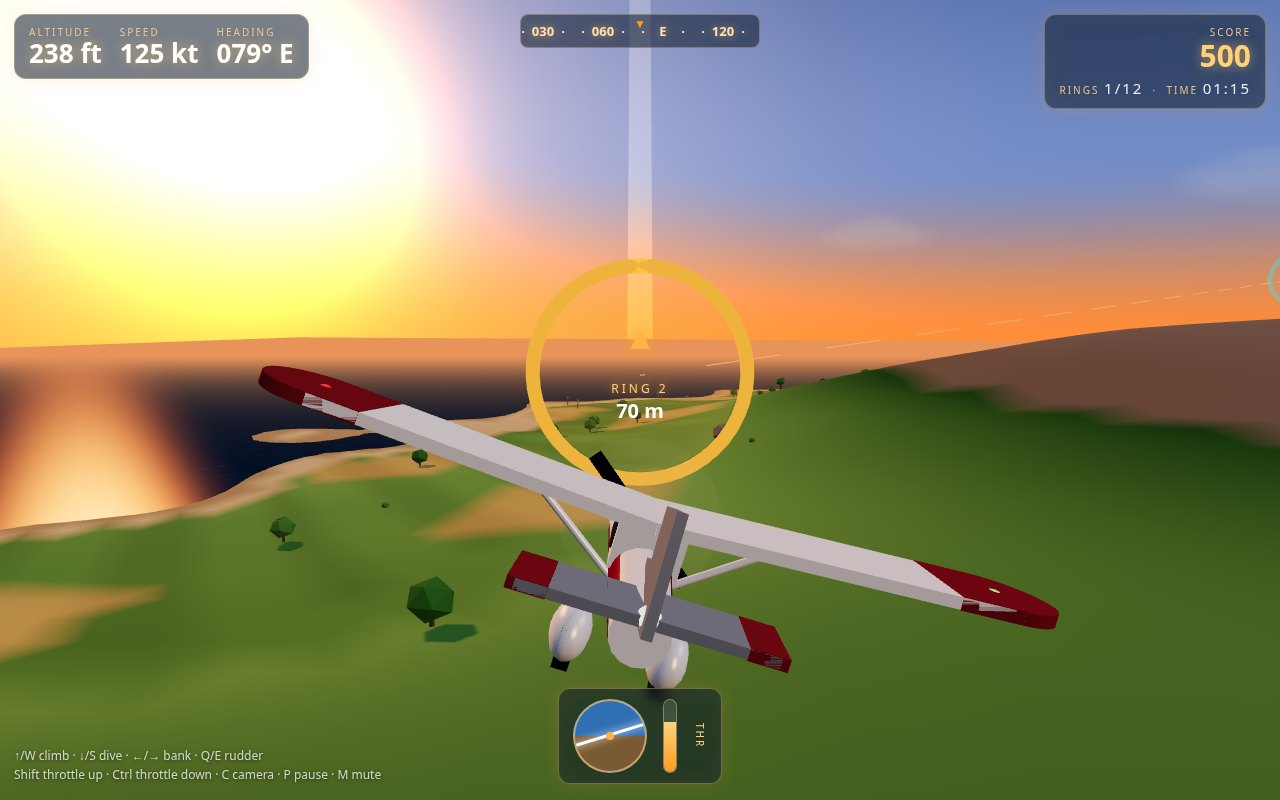
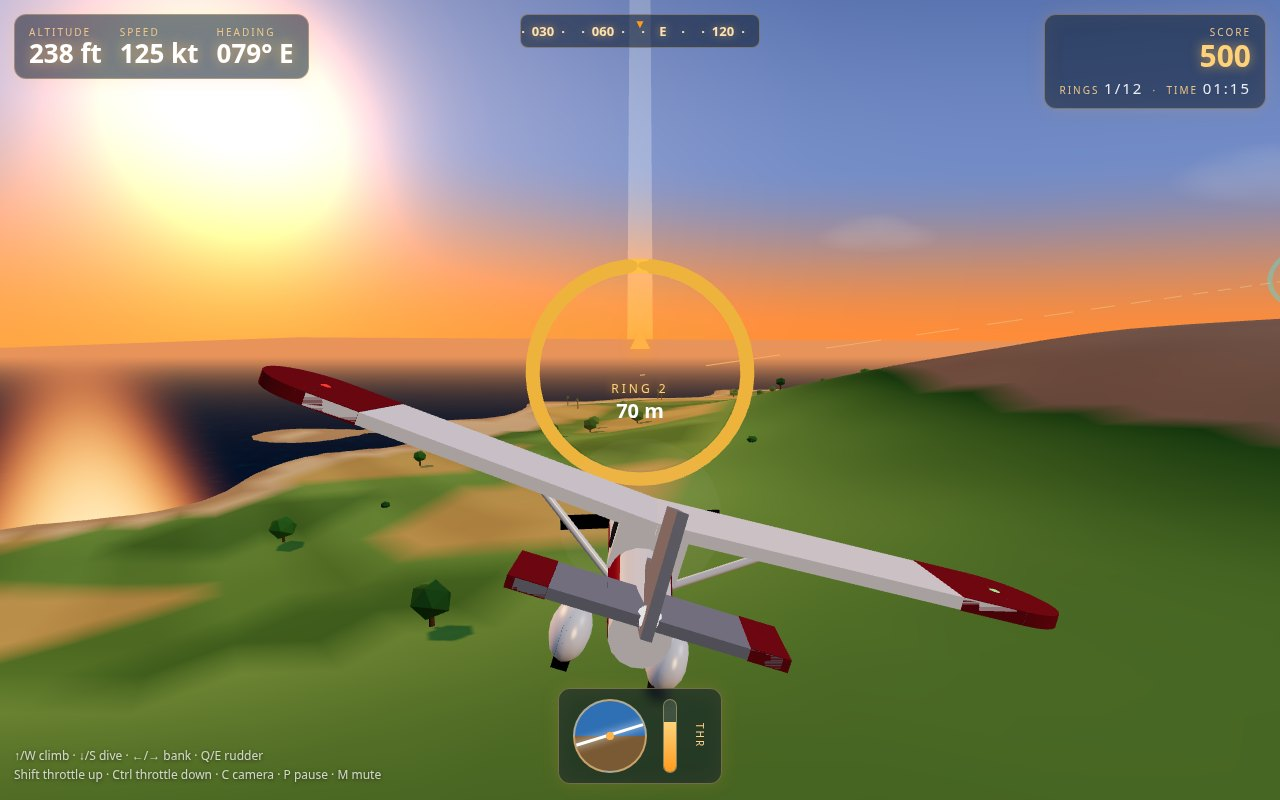
v4 targeted polish: bright menu/end staging, cockpit nose, softer sun, richer terrain
- Menu/end orbit camera swung to 0.79 (SE, looking NW over open sea
  instead of the dark NE hillside); orbit camera raised so the horizon
  stays in frame; runway lightened, hemisphere/ambient up
- Cockpit camera moved behind the nose so the white cowl reads at the
  bottom of the frame; prop stays hidden in cockpit (a faint blur read
  as a dark diagonal slab at any visible opacity)
- Sun glow shrunk/softened in the sky shader (core pow 150, halo pow 12)
- Boulders excluded within 350 m of the strip and sunk into slopes
- Terrain: more wheat/meadow variation + finer mottling; palms framing
  the strip and clusters along the ring course
- Cessna model, gameplay, HUD, flight model, rings, sounds untouched

diff --git a/game/src/world.js b/game/src/world.js
@@ -43,8 +43,11 @@ function buildSky(scene, rng) {
         vec3 col = mix(horizon, mid, smoothstep(0.0, 0.22, h));
         col = mix(col, zenith, smoothstep(0.18, 0.75, h));
         float sun = max(dot(normalize(vDir), sunDir), 0.0);
-        col += vec3(1.0, 0.55, 0.18) * pow(sun, 90.0) * 1.6;
-        col += vec3(1.0, 0.62, 0.28) * pow(sun, 7.0) * 0.35;
+        // Smaller, warmer sun: a tight bright core + a soft halo, so the
+        // ring and the plane stay the brightest readable elements instead
+        // of drowning in a blown white-yellow wash (v3 cover flaw).
+        col += vec3(1.0, 0.55, 0.18) * pow(sun, 150.0) * 1.15;
+        col += vec3(1.0, 0.62, 0.28) * pow(sun, 12.0) * 0.22;
         gl_FragColor = vec4(col, 1.0);
       }`,
   });
@@ -91,15 +94,19 @@ function buildTerrain(scene) {
     else if (h < 2.5) c.copy(sand);
     else if (h < 26) {
       c.copy(grassA).lerp(grassB, patch);
-      if (patch2 > 0.72) c.copy(wheat).lerp(c, 0.3); // golden field patches
+      if (patch2 > 0.6) c.copy(wheat).lerp(c, 0.12); // golden field patches
+      else if (patch2 < 0.22) c.lerp(forest, 0.4); // darker meadow patches
     } else if (h < 50) c.copy(grassB).lerp(forest, clamp((h - 26) / 24, 0, 1));
     else c.copy(rock).lerp(rockLight, clamp((h - 60) / 40, 0, 1) * 0.6);
-    // Farmland stripes on the gentle slopes + large-scale mottling.
+    // Farmland stripes on the gentle slopes + large-scale mottling + a
+    // finer mottle so the big green fields break up instead of reading flat.
     if (h > 2 && h < 22) {
       const stripe = Math.sin((x + z) * 0.11) > 0 ? 1 : 0.85;
       c.multiplyScalar(stripe);
     }
+    const patch3 = 0.5 + 0.5 * Math.sin(x * 0.071 + 0.5) * Math.sin(z * 0.063 - 0.8);
     c.multiplyScalar(0.94 + patch2 * 0.1);
+    c.multiplyScalar(0.96 + patch3 * 0.08);
     colors[i * 3] = c.r;
     colors[i * 3 + 1] = c.g;
     colors[i * 3 + 2] = c.b;
@@ -200,9 +207,11 @@ function buildClouds(scene, rng) {
 function buildRunway(scene) {
   const group = new THREE.Group();
   const y = RUNWAY.altitude + 0.15;
+  // Lighter strip so the runway reads in the menu/end shots instead of a
+  // black void (v3 flaw): warm light-grey asphalt, sun landing on it.
   const strip = new THREE.Mesh(
     new THREE.PlaneGeometry(RUNWAY.width, RUNWAY.length),
-    new THREE.MeshLambertMaterial({ color: 0x565a63 }),
+    new THREE.MeshLambertMaterial({ color: 0x75787e }),
   );
   strip.rotation.x = -Math.PI / 2;
   strip.rotation.z = RUNWAY.heading;
@@ -370,9 +379,12 @@ function buildCrags(scene) {
     const z = (rng() - 0.5) * 2200;
     const h = terrainHeight(x, z);
     if (h < 28 || h > 90) continue;
+    // Never near the airstrip: boulders on the hillside behind the runway
+    // read as beige blobs floating on the slope in the menu/end shots (v3).
+    if (Math.hypot(x - RUNWAY.x, z - RUNWAY.z) < 350) continue;
     const s = 2 + rng() * 4;
     const b = new THREE.Mesh(boulderGeo, rockMat);
-    b.position.set(x, h + s * 0.3, z);
+    b.position.set(x, h - s * 0.15, z); // sunk into the slope, clearly grounded
     b.scale.setScalar(s);
     b.rotation.set(rng() * 3, rng() * 3, rng() * 3);
     scene.add(b);
@@ -410,8 +422,8 @@ export function buildWorld(scene, seed = 1) {
   const rim = new THREE.DirectionalLight(0xbfd4ff, 0.45);
   rim.position.set(350, 240, 650);
   scene.add(rim);
-  scene.add(new THREE.HemisphereLight(0x8fb0e0, 0x5a4a3a, 1.5));
-  scene.add(new THREE.AmbientLight(0x604a38, 0.7));
+  scene.add(new THREE.HemisphereLight(0x8fb0e0, 0x5a4a3a, 1.7));
+  scene.add(new THREE.AmbientLight(0x604a38, 0.8));
 
   const dome = buildSky(scene, rng);
   const terrain = buildTerrain(scene);

diff --git a/game/src/main.js b/game/src/main.js
@@ -95,11 +95,14 @@ function main() {
       cameraMode = m;
       hud.setCockpit(m === 'cockpit');
       plane.canopy.visible = m !== 'cockpit';
-      // In the cockpit the prop is right in front of the camera: hide the
-      // whole prop (disc + blades) — at 1 m it veils the view. The blades
-      // read as black bars; the disc as a grey slab.
+      // Cockpit: the whole prop stays HIDDEN. A faint prop blur was tried
+      // in v4 — but a 3.4 m blade 2.25 m from the camera subtends ~74°,
+      // so even at 0.15 opacity it reads as a dark diagonal band across
+      // the frame (the v2 slab, back again). The nose cowl at the bottom
+      // of the frame is the aircraft cue; the prop blur is not worth the
+      // slab. Chase view keeps the full prop + disc.
       plane.prop.visible = m !== 'cockpit';
-      plane.bladeMat.opacity = m === 'cockpit' ? 0.22 : 1;
+      plane.bladeMat.opacity = m === 'cockpit' ? 0 : 1;
       plane.discMat.opacity = m === 'cockpit' ? 0 : 0.04;
     },
     setOrbitAngle(a) {
@@ -176,13 +179,13 @@ function main() {
   }
 
   function updateCockpitCamera() {
-    // Sit just ahead of the high wing's leading edge, above the nose, looking
-    // over the nose and the spinning prop: the wing stays behind the camera
-    // (it would fill the frame from the old seat), the runway stays in frame,
-    // and the prop reads small instead of filling the screen.
+    // Sit just behind the nose, above the cowl: the white nose + maroon
+    // belly read at the bottom of the frame (v3 sat ahead of the wing and
+    // the shot had no aircraft in it at all), the runway stays dead ahead,
+    // and the prop is a faint blur 2 m out instead of a slab at 1 m.
     const fwd = forwardVector(flight.state.yaw, flight.state.pitch);
     const up = new THREE.Vector3(0, 1, 0);
-    const pos = flight.state.pos.clone().addScaledVector(up, 0.95).addScaledVector(fwd, 2.2);
+    const pos = flight.state.pos.clone().addScaledVector(up, 1.12).addScaledVector(fwd, 1.1);
     camera.position.copy(pos);
     const look = flight.state.pos.clone().addScaledVector(fwd, 120).addScaledVector(up, -5);
     // Roll the horizon with the plane: tilt the camera up vector.
@@ -196,7 +199,7 @@ function main() {
     const target = flight.state.pos.clone().add(new THREE.Vector3(0, 1.5, 0));
     camera.position.set(
       target.x + Math.sin(orbitAngle) * r,
-      target.y + r * 0.35, // low enough that the horizon and sky stay in
+      target.y + r * 0.5, // high enough that the horizon and sky stay in
       target.z + Math.cos(orbitAngle) * r, // frame instead of only the slope
     );
     camera.lookAt(target);

diff --git a/game/src/trees.js b/game/src/trees.js
@@ -3,7 +3,7 @@
 // the town, the beaches and the runway, scattered on the hills.
 
 import * as THREE from 'three';
-import { RUNWAY, terrainHeight, mulberry32 } from './config.js';
+import { RUNWAY, RINGS, terrainHeight, mulberry32 } from './config.js';
 
 // True while the point sits near the airstrip (runway + approaches): keep
 // the strip and its final approach clear of trees.
@@ -57,6 +57,43 @@ export function buildTrees(scene, seed = 1) {
     const z = RUNWAY.z + Math.sin(a) * r;
     const h = terrainHeight(x, z);
     if (h > 5 && h < 38 && !nearRunway(x, z)) broadleaf.push([x, h, z]);
+  }
+  // v4: palms framing the airstrip (clear of the pavement, clear of the
+  // approach line) so the menu/end shots get green at the strip's edge.
+  for (let i = 0; i < 12; i++) {
+    const z = RUNWAY.z - 130 + i * 26;
+    for (const side of [-1, 1]) {
+      const x = RUNWAY.x + side * (34 + rng() * 10);
+      const h = terrainHeight(x, z);
+      if (h > 1) palms.push([x, h, z]);
+    }
+  }
+  // v4: clusters along the ring course so the play shot reads less empty.
+  // Midpoints between consecutive rings, offset perpendicular so nothing
+  // sits on the ring line itself or in the final approach.
+  for (let i = 0; i < RINGS.length; i++) {
+    const a = RINGS[i];
+    const b = RINGS[(i + 1) % RINGS.length];
+    const mx = (a.x + b.x) / 2;
+    const mz = (a.z + b.z) / 2;
+    const dx = b.x - a.x;
+    const dz = b.z - a.z;
+    const len = Math.hypot(dx, dz) || 1;
+    const px = -dz / len;
+    const pz = dx / len;
+    for (const k of [-1, 1]) {
+      const off = (34 + rng() * 26) * k;
+      const x = mx + px * off;
+      const z = mz + pz * off;
+      const h = terrainHeight(x, z);
+      if (nearRunway(x, z)) continue;
+      if (h > 5 && h < 38) broadleaf.push([x, h, z]);
+      else if (h >= 1.2 && h < 6) palms.push([x, h, z]);
+    }
+    const bx = mx + px * (18 + rng() * 10);
+    const bz = mz + pz * (18 + rng() * 10);
+    const bh = terrainHeight(bx, bz);
+    if (bh > 2 && bh < 45 && !nearRunway(bx, bz)) bushes.push([bx, bh, bz]);
   }
 
   // ---- palms: tilted trunk + a fan of drooping fronds -------------------

diff --git a/game/src/shots.js b/game/src/shots.js
@@ -23,12 +23,11 @@ export function stageShot(name, G) {
     G.flight.state.speed = 0;
     G.setState('menu');
     G.setCameraMode('orbit');
-    G.setOrbitAngle(-0.6); // from the south-west, looking north-east ALONG
-    // the runway: a front-left 3/4 view — nose, prop, canopy and the
-    // maroon belly face the camera, the runway runs away to the northern
-    // sea, the town climbs the eastern hillside and the sunset glows
-    // ahead. (Looking east into the hillside fills the frame with dark
-    // slope; looking along the strip opens it up.)
+    G.setOrbitAngle(0.79); // camera south-east of the plane, looking
+    // north-west: the view runs over open sea and the horizon, not into
+    // the dark eastern hillside (v3 looked north-east, the worst
+    // direction — sampled mean height 37 m, no sea). The plane's sunlit
+    // east side faces the camera as a front-right 3/4.
     G.setOrbitRadius(14);
     document.body.classList.add('shot-frame');
     G.hud.showMenu(0);
@@ -97,7 +96,7 @@ export function stageShot(name, G) {
     G.setElapsed(522);
     G.setState('results');
     G.setCameraMode('orbit');
-    G.setOrbitAngle(-0.6);
+    G.setOrbitAngle(0.79); // same sea view as the menu shot (v4)
     G.setOrbitRadius(13);
     document.body.classList.add('shot-frame');
     // Landed: no next ring to point at.
